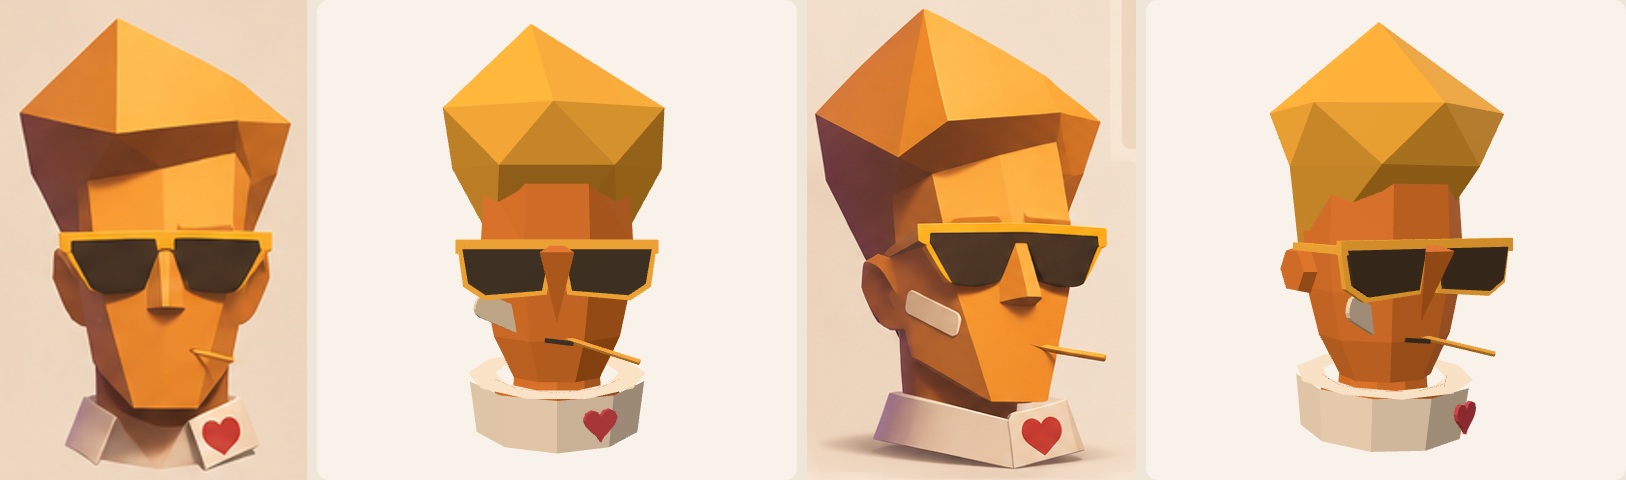
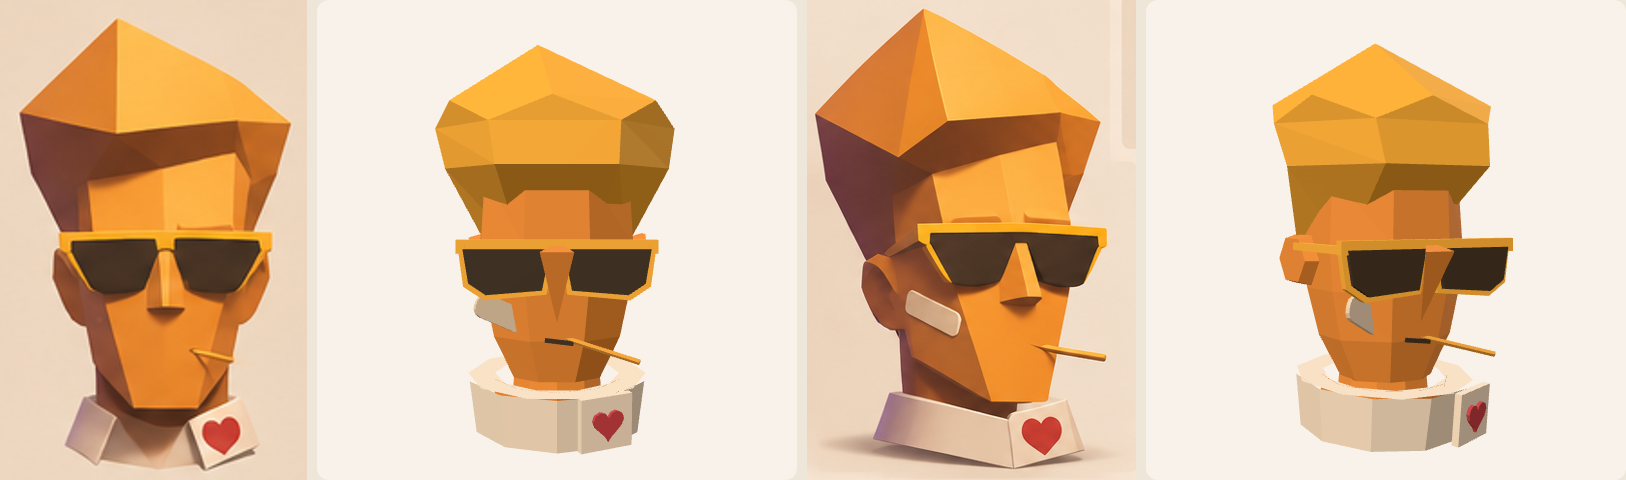
Leader heads: Friggo token v2 (boxier quiff with a hard front edge, lighter face, collar tab with the heart)
Claude-Session: https://claude.ai/code/session_01Evp91q287uqvTHXxJdbEVv

diff --git a/models/heads/friggo.js b/models/heads/friggo.js
@@ -48,7 +48,7 @@ const FriggoHead = (THREE) => {
   };
 
   // palette from the sheet
-  const HAIR = '#F7B238', FACE = '#D97627', SHADES = '#3B2E1F', COLLAR = '#F3E4CF', COLLAR2 = '#D9C7AE', HEART = '#C4414A', BANDAGE = '#E6D3B8', PICK = '#E8A43C';
+  const HAIR = '#F7B238', FACE = '#EA8F37', SHADES = '#3B2E1F', COLLAR = '#F3E4CF', COLLAR2 = '#D9C7AE', HEART = '#C4414A', BANDAGE = '#E6D3B8', PICK = '#E8A43C';
 
   // the face: a long wedge, widest at the cheekbones/glasses, tapering to a square chin; a flat facet at the front
   // measured from the sheet's front view (chin at y -1, hairline at 1): [y, halfWidth, halfDepth, centreZ, centreX, turn]
@@ -69,13 +69,14 @@ const FriggoHead = (THREE) => {
     // hair: a wide, deep block wrapping down the back of the head, a straight hairline across the forehead, and a
     // pitched roof up to a peak a little to one side. About half as tall as the face, a bit wider than it.
     const HAIR_RINGS = [
-      [0.2, 0.7, 0.42, 0.5, 0.0, 0], // low at the back (its front is hidden inside the face)
-      [0.98, 1.0, 0.96, -0.02, 0.0, 0.5], // the hairline, jutting forward over the forehead
-      [1.5, 1.14, 1.02, -0.08, 0.03, 0], // where the roof starts: wider than the glasses
+      [0.2, 0.7, 0.42, 0.5, 0.0, 0.5], // low at the back (its front is hidden inside the face)
+      [0.98, 1.06, 1.0, -0.1, 0.0, 0.5], // the hairline: a hard, straight front edge, overhanging the forehead
+      [1.36, 1.14, 1.0, -0.04, 0.02, 0.5], // near-vertical sides; the front slopes back and up, so it catches the light
+      [1.58, 1.08, 0.92, 0.0, 0.04, 0], // the roof starts: turned, so it breaks into triangular facets
     ];
-    out.push({ g: loft(HAIR_RINGS, [0.24, 2.3, -0.3], [0, 0.2, 0.55], 6), col: HAIR }); // the peak off to his right // six sides: bold facets
+    out.push({ g: loft(HAIR_RINGS, [0.18, 2.14, -0.12], [0, 0.2, 0.55], 6), col: HAIR }); // the peak: off to his right and forward
     // ears: plain flat shapes at glasses height
-    for (const sd of [-1, 1]) out.push(P(new THREE.CylinderGeometry(0.24, 0.21, 0.12, 6), FACE, [sd * 0.8, 0.02, 0.28], [0, 0, PI / 2], [1, 1, 1.35]));
+    for (const sd of [-1, 1]) out.push(P(new THREE.CylinderGeometry(0.27, 0.23, 0.12, 6), FACE, [sd * 0.8, 0.12, 0.28], [0, 0, PI / 2], [1, 1, 1.35]));
     // nose: a wedge pointing down and forward under the glasses
     const fz = frontZ(FACE_RINGS[3]), cz = frontZ(FACE_RINGS[2]);
     { const g = new THREE.ConeGeometry(0.17, 0.72, 3, 1); g.rotateY(PI); g.rotateX(PI - 0.35);
@@ -108,7 +109,9 @@ const FriggoHead = (THREE) => {
     out.push(P(new THREE.CylinderGeometry(0.62, 0.62, ch, 10, 1, true), FACE, [0, cy, 0.04], tilt)); // inside
     out.push(P(new THREE.RingGeometry(0.6, 0.86, 10, 1), COLLAR, [0, cy + ch / 2, 0.04], [-PI / 2 - 0.1, 0, 0])); // top edge
     out.push(P(new THREE.CircleGeometry(0.8, 10), COLLAR2, [0, cy - ch / 2, 0.04], [PI / 2 - 0.1, 0, 0])); // bottom
-    out.push(P(slab(heart(0.16), 0.04), HEART, [-0.38, cy - 0.04, -0.8], [-0.04, 0.42, 0]));
+    const tab = [-0.42, cy - 0.02, -0.84], tabRot = [-0.12, 0.45, 0];
+    out.push(P(new THREE.BoxGeometry(0.5, 0.48, 0.07), COLLAR, tab, tabRot)); // the collar tab
+    { const g = slab(heart(0.15), 0.04); g.translate(0, 0, -0.05); out.push(P(g, HEART, tab, tabRot)); }
     return out;
   };
 

diff --git a/models/heads/HANDOFF.md b/models/heads/HANDOFF.md
@@ -27,11 +27,11 @@ How the token is built (reuse it for the next leaders):
   token sheet (1536 x 1024): front `400,65,200,280` (`--yaw 0`), hero `40,300,310,445` (`--yaw -0.55`).
 
 **Friggo** (the leader formerly called Frickolas Cage; id `cage`, renamed in the game on 2026-11-07): token built
-from `refs/friggo-reference.png` (target 1,200-2,000 triangles; the token is **`friggo.js`, FriggoHead, 560
+from `refs/friggo-reference.png` (target 1,200-2,000 triangles; the token is **`friggo.js`, FriggoHead v2, 584
 triangles**, waiting for Vilhelm's verdict). A long 8-sided face wedge tapering to a square chin and a 6-sided
-pompadour block with a pitched roof up to an off-centre peak (both from `loft()`: stacked rings, alternate rings
+pompadour block (a hard straight front edge overhanging the forehead, near-vertical sides, the front sloping back so it catches the light) with a pitched roof up to an off-centre peak (both from `loft()`: stacked rings, alternate rings
 turned for triangular facets), a wedge nose, plain ears, wide sunglasses (yellow top bar and rims, dark lenses), a
-toothpick, a plaster on the cheek, and a simple ring collar with a red heart. Renders: `renders/friggo-*.png`.
+toothpick, a plaster on the cheek, and a ring collar with a square tab carrying a red heart. Renders: `renders/friggo-*.png`.
 Crops of his sheet: front `345,50,170,265` (`--yaw 0`), hero `0,225,340,495` (`--yaw 0.5`).
 
 Everything below this section was written for the earlier, detailed style. The hand-built Zoe versions
